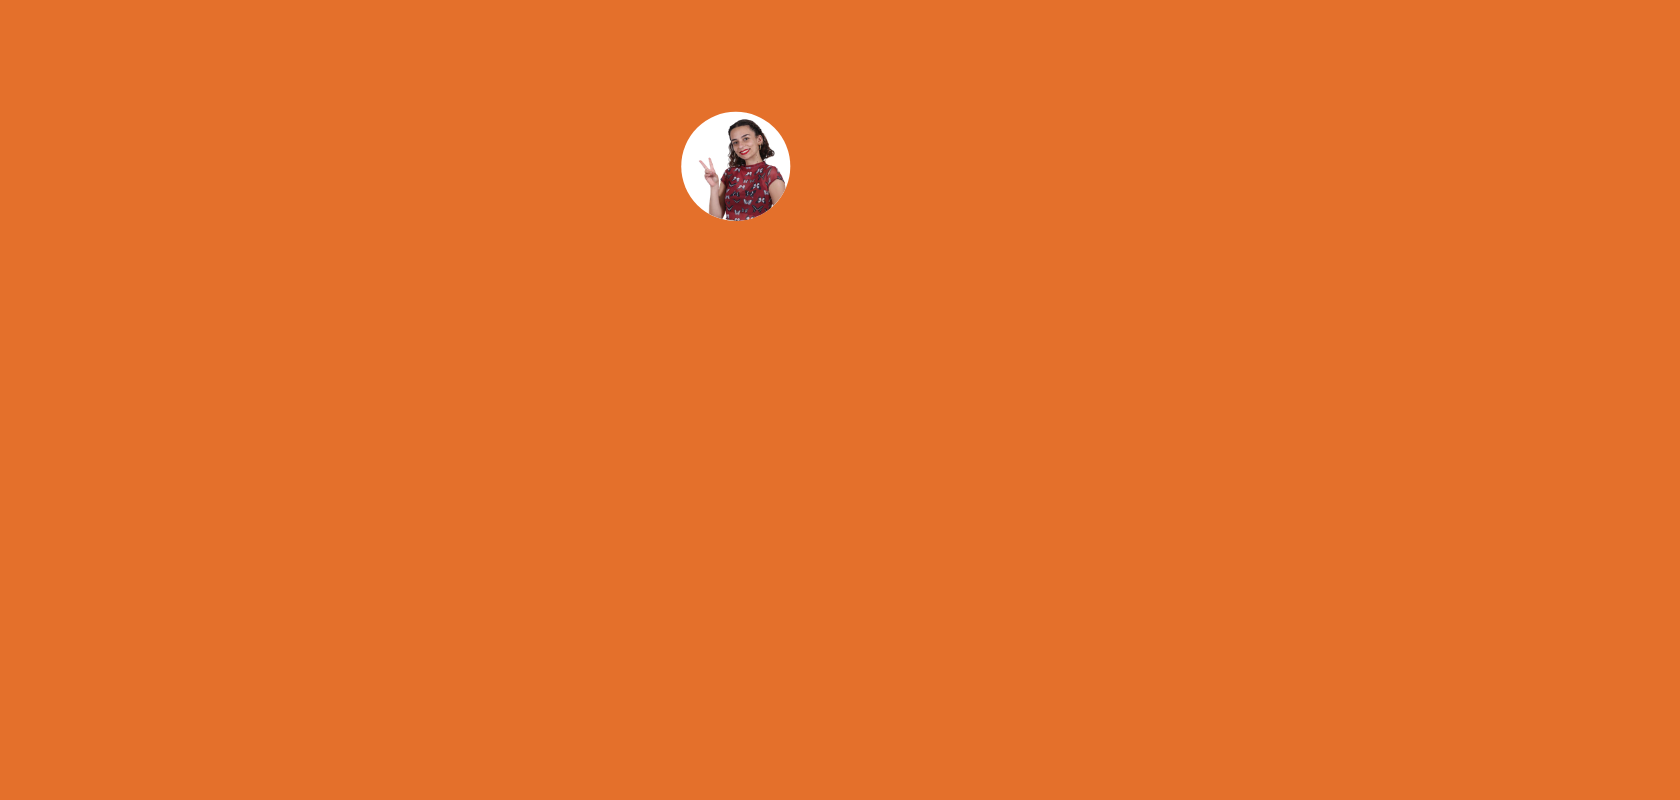
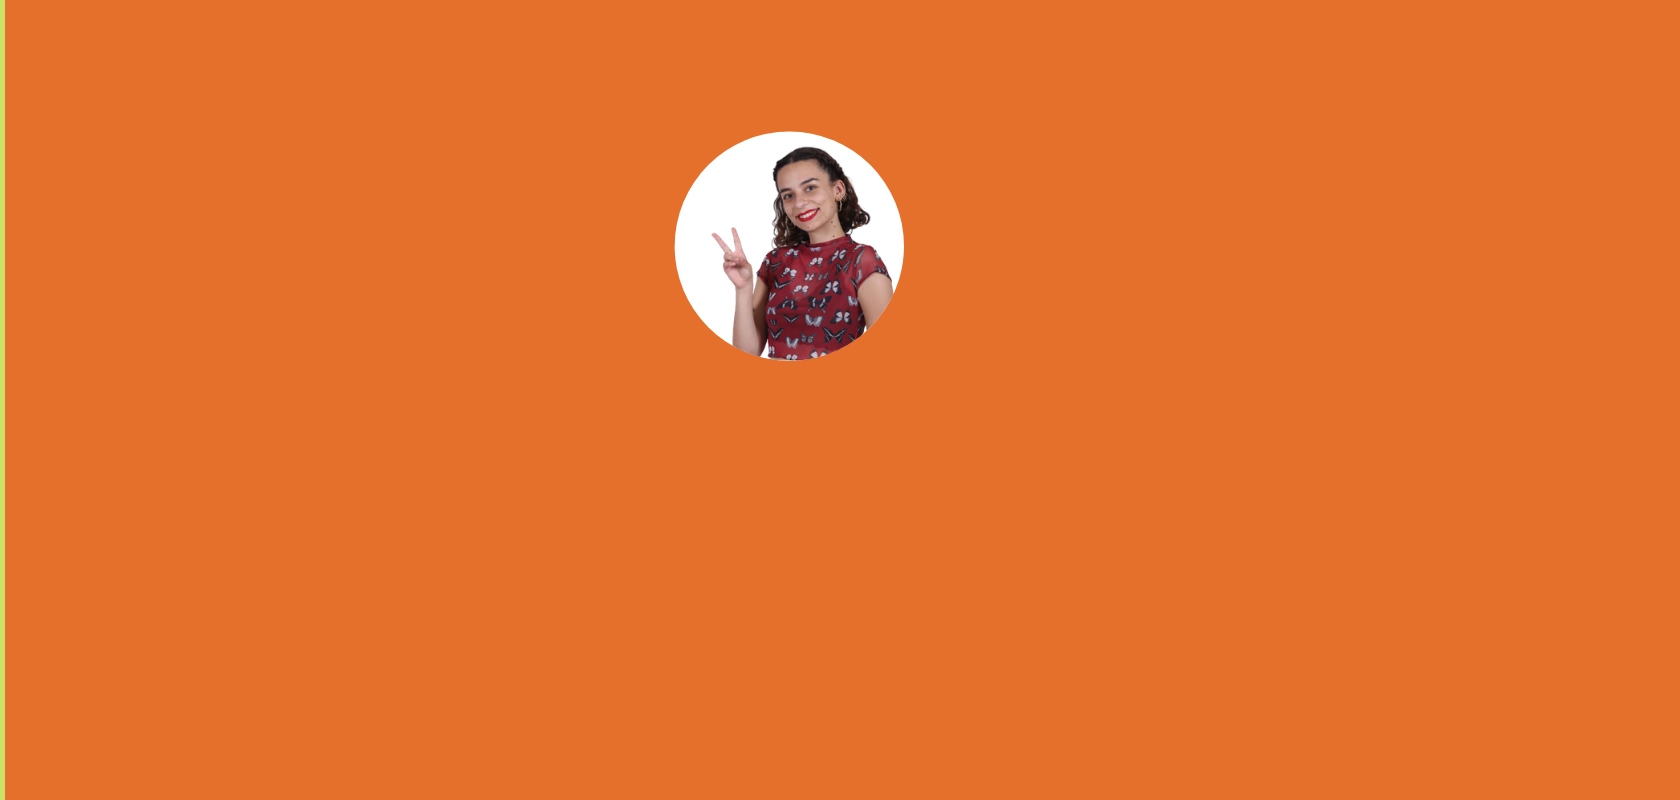
commit

Changed region(s): [[0.4024, 0.125, 0.5571, 0.4688]]

diff --git a/style.css b/style.css
@@ -230,12 +230,25 @@ section .title::after {
   }
 }
 
+@media (max-width: 768px) {
+  .home {
+    display: flex;
+    background: url("images/bannerIpad.png") no-repeat center;
+    height: 100vh;
+    color: #fff;
+    min-height: 500px;
+    background-size: cover;
+    background-attachment: fixed;
+    font-family: Cocogoose, MyriadPro;
+  }
+}
 
 .home .max-width {
   margin: auto 0 auto 30px;
 }
 .home .home-content .text-1 {
   font-size: 27px;
+  margin-top: 15rem;
 }
 .home .home-content .text-2 {
   font-size: 75px;
@@ -735,6 +748,11 @@ footer span a:hover {
 }
 
 @media (max-width: 350px) {
+
+  .home .home-content .text-1 {
+    font-size: 27px;
+    margin-top: 11rem;
+  }
   .home .home-content .text-2 {
     font-size: 40px;
   }
